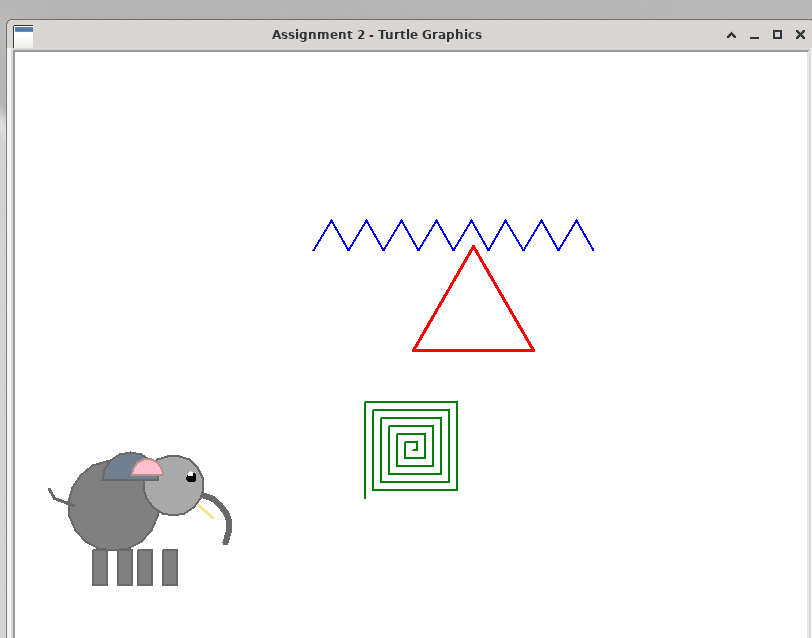
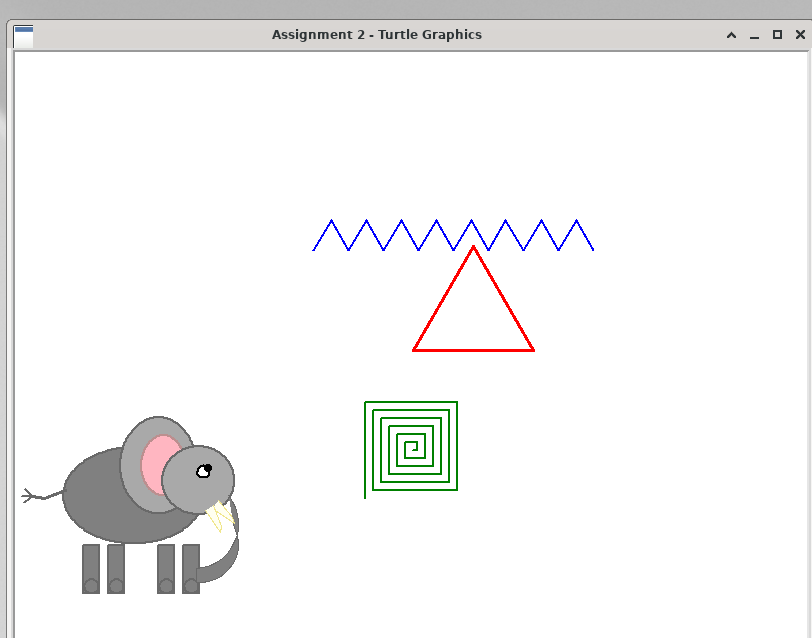
Improve A2 elephant drawing proportions and detail

Changed region(s): [[0.0924, 0.6552, 0.3079, 0.953], [0.0308, 0.7445, 0.0924, 0.8041]]

diff --git a/A2Turtle.py b/A2Turtle.py
@@ -4,6 +4,7 @@
 # Assignment 2 - Turtle Graphics
 
 import turtle
+import math
 
 # Set up the screen
 wn = turtle.Screen()
@@ -59,130 +60,144 @@ for i in range(1, 25):
 spiral.hideturtle()
 
 # d) Your own picture
-# Drawing an elephant in the lower-left empty region
+# Drawing a side-view elephant in the lower-left empty region
 elephant = turtle.Turtle()
 elephant.speed("fastest")
 elephant.pensize(2)
 
-# Body
-elephant.penup()
-elephant.goto(-300, -200)
-elephant.setheading(0)
-elephant.pendown()
-elephant.color("dimgray")
-elephant.fillcolor("gray")
-elephant.begin_fill()
-elephant.circle(45)
-elephant.end_fill()
+
+def filled_ellipse(t, cx, cy, rx, ry, outline, fill):
+    """Draw a filled ellipse centered at (cx, cy)."""
+    t.penup()
+    t.goto(cx + rx, cy)
+    t.pendown()
+    t.color(outline, fill)
+    t.begin_fill()
+    for deg in range(0, 361, 2):
+        rad = math.radians(deg)
+        t.goto(cx + rx * math.cos(rad), cy + ry * math.sin(rad))
+    t.end_fill()
+
+
+# Legs first (drawn under the body) — pen up between each leg
+leg_data = [
+    (-330, -195, 16, 48),  # back left
+    (-305, -195, 16, 48),  # back right
+    (-255, -195, 16, 48),  # front left
+    (-230, -195, 16, 48),  # front right
+]
+for lx, ly, lw, lh in leg_data:
+    elephant.penup()
+    elephant.goto(lx, ly)
+    elephant.setheading(0)
+    elephant.pendown()
+    elephant.color("dimgray", "gray")
+    elephant.begin_fill()
+    for _ in range(2):
+        elephant.forward(lw)
+        elephant.right(90)
+        elephant.forward(lh)
+        elephant.right(90)
+    elephant.end_fill()
+    # Foot pad
+    elephant.penup()
+    elephant.goto(lx + lw / 2, ly - lh)
+    elephant.pendown()
+    elephant.color("dimgray", "slategray")
+    elephant.begin_fill()
+    elephant.setheading(0)
+    elephant.circle(7)
+    elephant.end_fill()
+
+# Body (horizontal oval)
+filled_ellipse(elephant, -280, -145, 70, 48, "dimgray", "gray")
+
+# Big ear (behind the head)
+filled_ellipse(elephant, -255, -115, 38, 48, "dimgray", "darkgray")
+# Inner ear
+filled_ellipse(elephant, -250, -115, 22, 30, "rosybrown", "lightpink")
 
 # Head
-elephant.penup()
-elephant.goto(-240, -165)
-elephant.pendown()
-elephant.color("dimgray")
-elephant.fillcolor("darkgray")
-elephant.begin_fill()
-elephant.circle(30)
-elephant.end_fill()
+filled_ellipse(elephant, -215, -130, 36, 34, "dimgray", "darkgray")
 
-# Ear (behind look — large oval-ish flap)
+# Trunk — thick filled curve curling under
 elephant.penup()
-elephant.goto(-255, -130)
-elephant.setheading(90)
+elephant.goto(-185, -145)
 elephant.pendown()
-elephant.color("dimgray")
-elephant.fillcolor("slategray")
+elephant.color("dimgray", "gray")
+elephant.pensize(1)
 elephant.begin_fill()
-elephant.circle(28, 180)
+elephant.setheading(-55)
+# Outer edge of trunk
+for i in range(14):
+    elephant.forward(7)
+    elephant.right(9)
+# Tip and back up the inner edge
 elephant.left(90)
-elephant.forward(56)
-elephant.end_fill()
-
-# Inner ear
-elephant.penup()
-elephant.goto(-250, -125)
-elephant.setheading(90)
-elephant.pendown()
-elephant.color("rosybrown")
-elephant.fillcolor("pink")
-elephant.begin_fill()
-elephant.circle(16, 180)
+elephant.forward(14)
 elephant.left(90)
-elephant.forward(32)
+for i in range(14):
+    elephant.forward(6)
+    elephant.left(9)
 elephant.end_fill()
-
-# Trunk — pen travels with lifts between segments for a curve
-elephant.penup()
-elephant.goto(-210, -145)
-elephant.setheading(-20)
-elephant.pendown()
-elephant.color("dimgray")
-elephant.pensize(6)
-for _ in range(6):
-    elephant.forward(10)
-    elephant.right(18)
 elephant.pensize(2)
+
+# Tusks (cream colored) — pen up between them
+for heading, start in ((-50, (-195, -150)), (-70, (-200, -155))):
+    elephant.penup()
+    elephant.goto(start)
+    elephant.setheading(heading)
+    elephant.pendown()
+    elephant.color("khaki", "ivory")
+    elephant.begin_fill()
+    elephant.pensize(1)
+    elephant.forward(22)
+    elephant.right(25)
+    elephant.forward(6)
+    elephant.right(140)
+    elephant.forward(26)
+    elephant.end_fill()
+    elephant.pensize(2)
 
 # Eye
 elephant.penup()
-elephant.goto(-225, -125)
+elephant.goto(-205, -118)
 elephant.pendown()
-elephant.color("black")
-elephant.fillcolor("black")
+elephant.color("black", "white")
 elephant.begin_fill()
-elephant.circle(4)
+elephant.circle(6)
+elephant.end_fill()
+elephant.penup()
+elephant.goto(-203, -116)
+elephant.pendown()
+elephant.color("black", "black")
+elephant.begin_fill()
+elephant.circle(3)
 elephant.end_fill()
 
-# Eye highlight
+# Tail with tuft — pen up to start, then draw
 elephant.penup()
-elephant.goto(-224, -123)
-elephant.pendown()
-elephant.color("white")
-elephant.fillcolor("white")
-elephant.begin_fill()
-elephant.circle(1.5)
-elephant.end_fill()
-
-# Tusk
-elephant.penup()
-elephant.goto(-215, -155)
-elephant.setheading(-40)
-elephant.pendown()
-elephant.color("khaki")
-elephant.pensize(3)
-elephant.forward(18)
-elephant.pensize(2)
-
-# Four legs (pen up between each)
-leg_positions = [(-320, -200), (-295, -200), (-275, -200), (-250, -200)]
-for x, y in leg_positions:
-    elephant.penup()
-    elephant.goto(x, y)
-    elephant.setheading(270)
-    elephant.pendown()
-    elephant.color("dimgray")
-    elephant.fillcolor("gray")
-    elephant.begin_fill()
-    elephant.forward(35)
-    elephant.left(90)
-    elephant.forward(14)
-    elephant.left(90)
-    elephant.forward(35)
-    elephant.left(90)
-    elephant.forward(14)
-    elephant.end_fill()
-
-# Tail
-elephant.penup()
-elephant.goto(-340, -155)
-elephant.setheading(160)
+elephant.goto(-348, -140)
+elephant.setheading(200)
 elephant.pendown()
 elephant.color("dimgray")
 elephant.pensize(3)
-elephant.forward(20)
-elephant.right(40)
-elephant.forward(10)
+elephant.forward(22)
+elephant.right(25)
+elephant.forward(12)
+# Tuft
 elephant.pensize(2)
+for angle in (-40, 0, 40):
+    elephant.penup()
+    elephant.forward(0)
+    tip = elephant.position()
+    heading = elephant.heading()
+    elephant.setheading(heading + angle)
+    elephant.pendown()
+    elephant.forward(10)
+    elephant.penup()
+    elephant.goto(tip)
+    elephant.setheading(heading)
 
 elephant.hideturtle()
 
